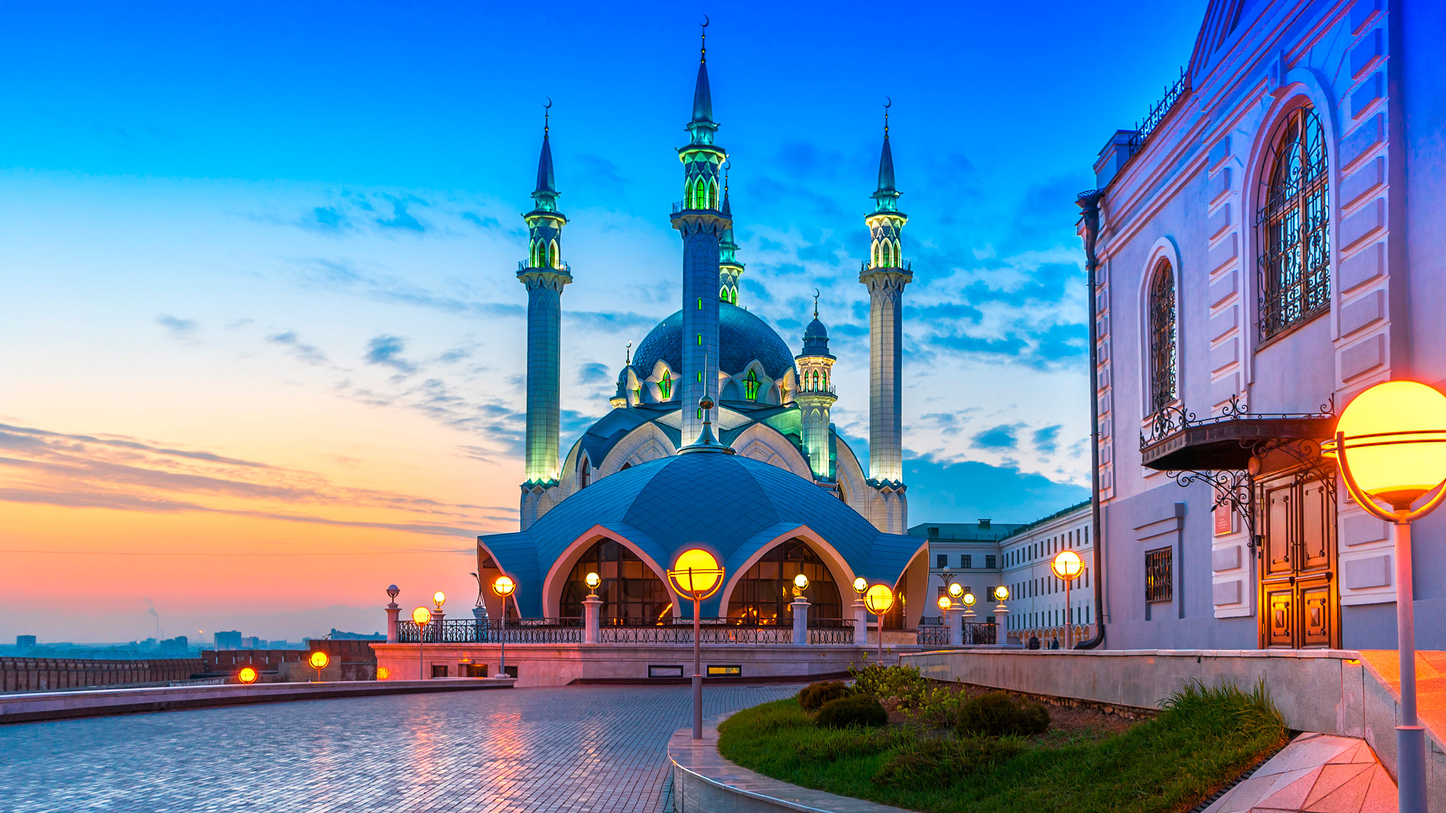
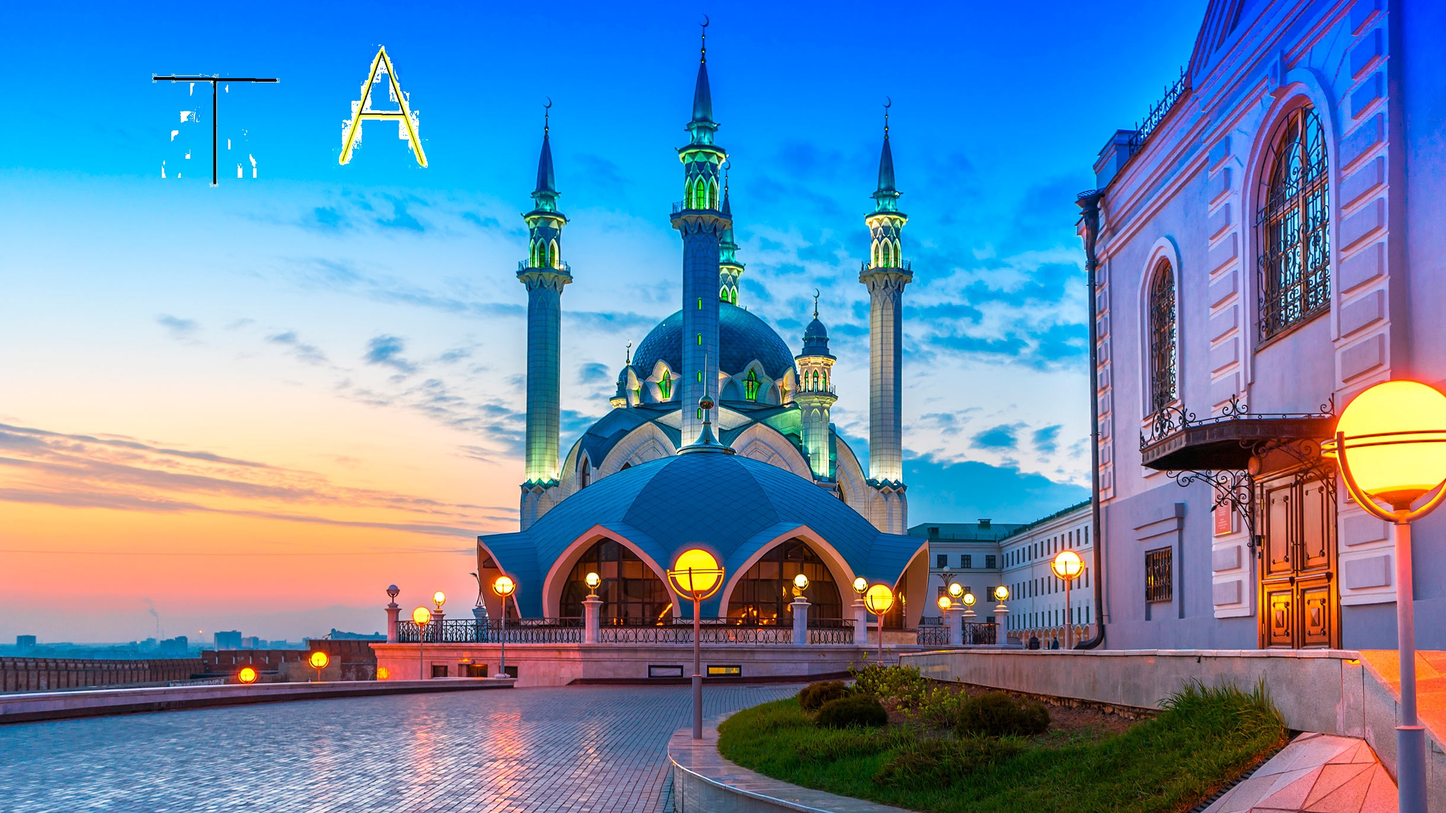
Выделение и распознавание границ

diff --git a/venv/Scripts/Computer Vision/Point_Detector.py b/venv/Scripts/Computer Vision/Point_Detector.py
@@ -1,0 +1,56 @@
+from pylab import *
+from numpy import *
+from scipy.ndimage import filters
+
+
+def compute_harris_response(im, sigma=3):
+    "" "В изображении в оттенках серого рассчитайте функцию отклика детектора угла Харриса для каждого пикселя" ""
+    # Вычислить производную
+    imx = zeros(im.shape)
+    filters.gaussian_filter(im, (sigma, sigma), (0, 1), imx)
+    imy = zeros(im.shape)
+    filters.gaussian_filter(im, (sigma, sigma), (1, 0), imy)
+    # Вычислить компоненты матрицы Харриса
+    Wxx = filters.gaussian_filter(imx * imx, sigma)
+    Wxy = filters.gaussian_filter(imx * imy, sigma)
+    Wyy = filters.gaussian_filter(imy * imy, sigma)
+    # Вычислить собственные значения и следы
+    Wdet = Wxx * Wyy - Wxy ** 2
+    Wtr = Wxx + Wyy
+    return Wdet / Wtr
+
+
+def get_harris_points(harrisim, min_dist=10, threshold=0.1):
+    "" "Возвращает угловые точки из изображения ответа Харриса. Min_dist - минимальное количество пикселей, которое разделяет угловые точки и границу изображения" ""
+    # Найдите возможные угловые точки выше порога
+    corner_threshold = harrisim.max() * threshold
+    harrisim_t = (harrisim > corner_threshold) * 1
+
+    # Получить координаты точки-кандидата
+    coords = array(harrisim_t.nonzero()).T
+    # И их значение ответа Харриса
+    candidate_values = [harrisim[c[0], c[1]] for c in coords]
+    # Сортировка баллов-кандидатов по значению ответа Харриса
+    index = argsort(candidate_values)
+    # Сохраняем позицию возможной точки в массив
+    allowed_locations = zeros(harrisim.shape)
+    allowed_locations[min_dist:-min_dist, min_dist:-min_dist] = 1
+    # По принципу min_distance выбрать лучшую точку Харриса
+    filtered_coords = []
+    for i in index:
+        if allowed_locations[coords[i, 0], coords[i, 1]] == 1:
+            filtered_coords.append(coords[i])
+    allowed_locations[(coords[i, 0] - min_dist):(coords[i, 0] + min_dist),
+
+    (coords[i, 1] - min_dist):(coords[i, 1] + min_dist)] = 0
+    return filtered_coords
+
+
+def plot_harris_points(image, filtered_coords):
+    "" "Нарисуйте обнаруженные угловые точки на изображении" ""
+    figure()
+    gray()
+    imshow(image)
+    plot([p[1] for p in filtered_coords], [p[0] for p in filtered_coords], '*')
+    axis('off')
+    show()

diff --git a/venv/Scripts/Computer Vision/Contour_Recognize.py b/venv/Scripts/Computer Vision/Contour_Recognize.py
@@ -3,13 +3,41 @@ import cv2 as cv
 import matplotlib.pyplot as plt
 
 
-image = cv.imread("kzn.jpg")
-image = cv.cvtColor(image, cv.COLOR_BGR2RGB)
-gray = cv2.cvtColor(image, cv2.COLOR_RGB2GRAY)
+def find_template_countour(filename):
+    img = cv2.imread(filename, 0)
+    img_for_drawing = cv2.imread(filename)
+    *t, contours, hierarchy = cv2.findContours(img, cv2.RETR_TREE, cv2.CHAIN_APPROX_SIMPLE)
+    cv2.drawContours(img_for_drawing, contours, 1, (0, 255, 0), 3)
+    cv2.imshow('template', img_for_drawing)
 
-_, binary = cv.threshold(gray, 125, 255, cv.THRESH_BINARY)
+    while (True):
+        if cv2.waitKey(33) == ord('q'):
+            cv2.destroyWindow('template')
+            break
 
-contours, hierarchy = cv2.findContours(binary, cv.RETR_TREE, cv.CHAIN_APPROX_SIMPLE)
-image = cv.drawContours(image, contours, -1, (0, 255, 0), 2)
-plt.imshow(image)
-plt.show()
+    return contours[1]
+
+
+def find_main_image_contours(filename):
+    main_image = cv2.imread(filename, 0)
+    copy_image = cv2.imread(filename)
+    main_image = cv2.medianBlur(main_image, 3)
+    ret, main_image = cv2.threshold(main_image, 50, 200, cv2.THRESH_BINARY)
+    *t, contours, hierarchy = cv2.findContours(main_image, cv2.RETR_TREE, cv2.CHAIN_APPROX_SIMPLE)
+
+    return copy_image, contours
+
+
+def searching(contours, template):
+    min = 10
+    index = -1
+
+    for i in range(0, len(contours)):
+        matching = cv2.matchShapes(contours[i], template, 1, 0.0)
+
+        if matching <= min:
+            print(matching, i)
+            min = matching
+            index = i
+
+    return index

diff --git a/venv/Scripts/Computer Vision/main_2.py b/venv/Scripts/Computer Vision/main_2.py
@@ -1,0 +1,43 @@
+from pylab import *
+from PIL import Image
+import Point_Detector as harris
+
+"""
+Example of detecting Harris corner points (Figure 2-1 in the book).
+"""
+
+# Импортировать изображение
+im = array(Image.open('SD.jpg').convert('L'))
+
+# Определить угловую точку Харриса
+harrisim = harris.compute_harris_response(im)
+
+# Функция ответа Харриса
+harrisim1 = 255 - harrisim
+
+figure()
+gray()
+
+# Нарисуйте график ответа Харриса
+subplot(141)
+imshow(harrisim1)
+print(harrisim1.shape)
+axis('off')
+axis('equal')
+
+threshold = [0.01, 0.05, 0.1]
+for i, thres in enumerate(threshold):
+    filtered_coords = harris.get_harris_points(harrisim, 6, thres)
+    subplot(1, 4, i + 2)
+    imshow(im)
+    print(im.shape)
+    plot([p[1] for p in filtered_coords], [p[0] for p in filtered_coords], '*')
+    axis('off')
+
+# Модуль Харриса PCV в PCV, использованный в оригинальной книге
+# harris.plot_harris_points(im, filtered_coords)
+
+# plot only 200 strongest
+# harris.plot_harris_points(im, filtered_coords[:200])
+
+show()

diff --git a/venv/Scripts/Computer Vision/main.py b/venv/Scripts/Computer Vision/main.py
@@ -1,0 +1,22 @@
+import cv2
+import numpy as np
+import Contour_Recognize as cr
+
+
+if __name__ == '__main__':
+    image, image_contours = cr.find_main_image_contours('source/11.jpg')
+    A_template = cr.find_template_countour('source/aaa.jpg')
+    I_template = cr.find_template_countour('source/ttt.jpg')
+
+    A_index = cr.searching(image_contours, A_template)
+    cv2.drawContours(image, image_contours, A_index, (0, 255, 0), 3)
+
+    I_index = cr.searching(image_contours, I_template)
+    cv2.drawContours(image, image_contours, I_index, (0, 255, 0), 3)
+
+    cv2.imshow('result', image)
+
+    while (True):
+        if cv2.waitKey(33) == ord('q'):
+            break
+    cv2.destroyAllWindows()

diff --git a/venv/Binary.py b/venv/Binary.py
@@ -42,7 +42,6 @@ def Adaptive_Thresholding_Custom(filename, step=20):
 
     img2 = Image.new("1", img.size)
     img2.putdata(arr2d[0].tolist())
-    #img2.show()
     print(type(img2))
     return img2
 
